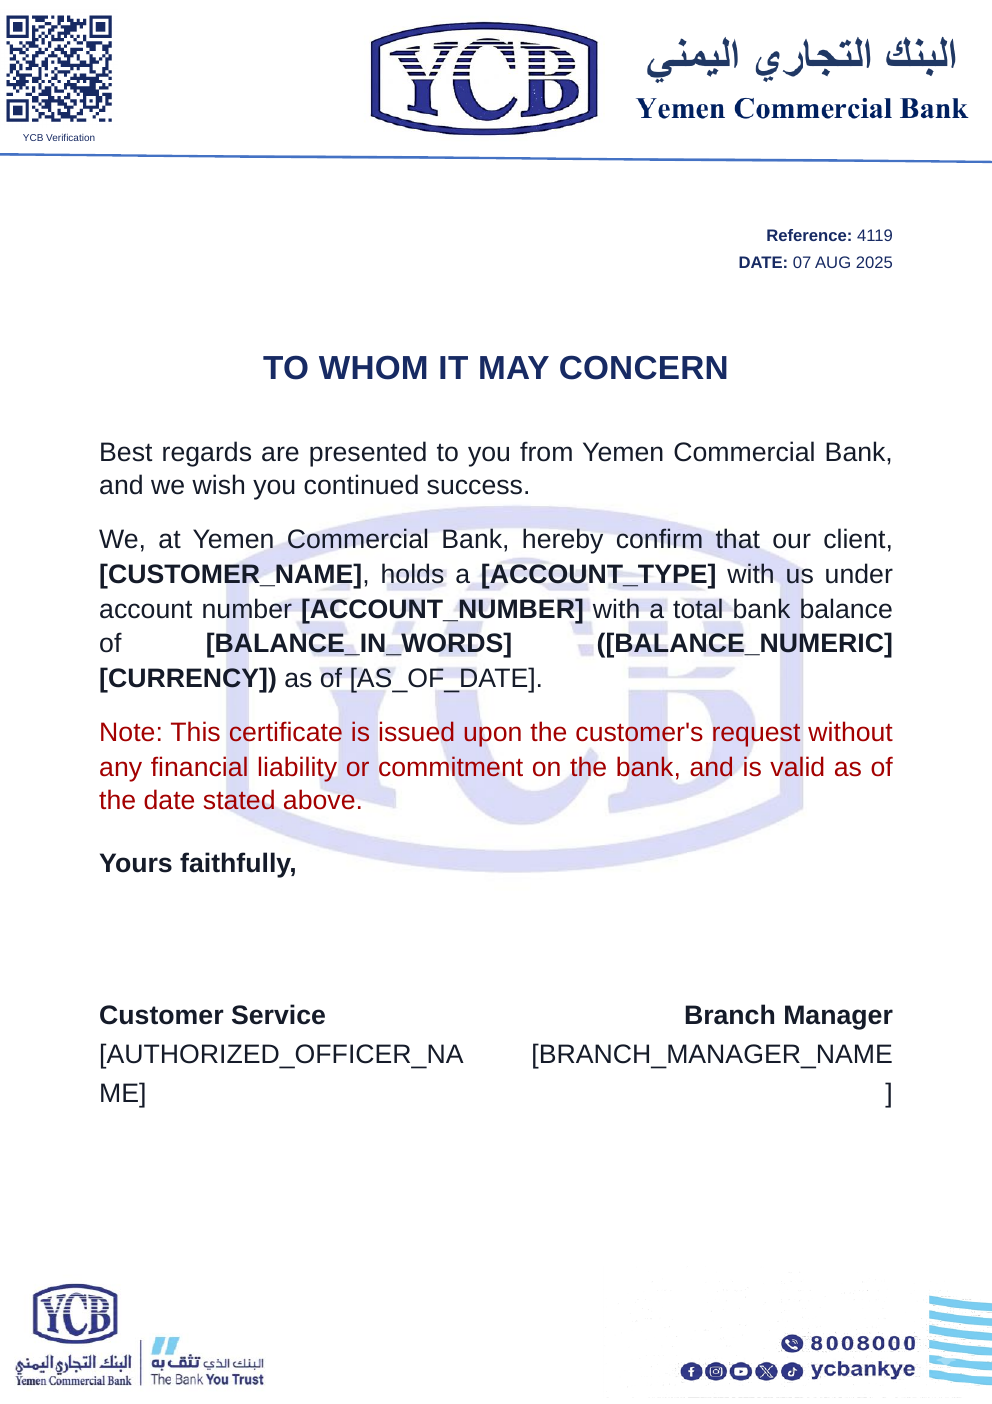
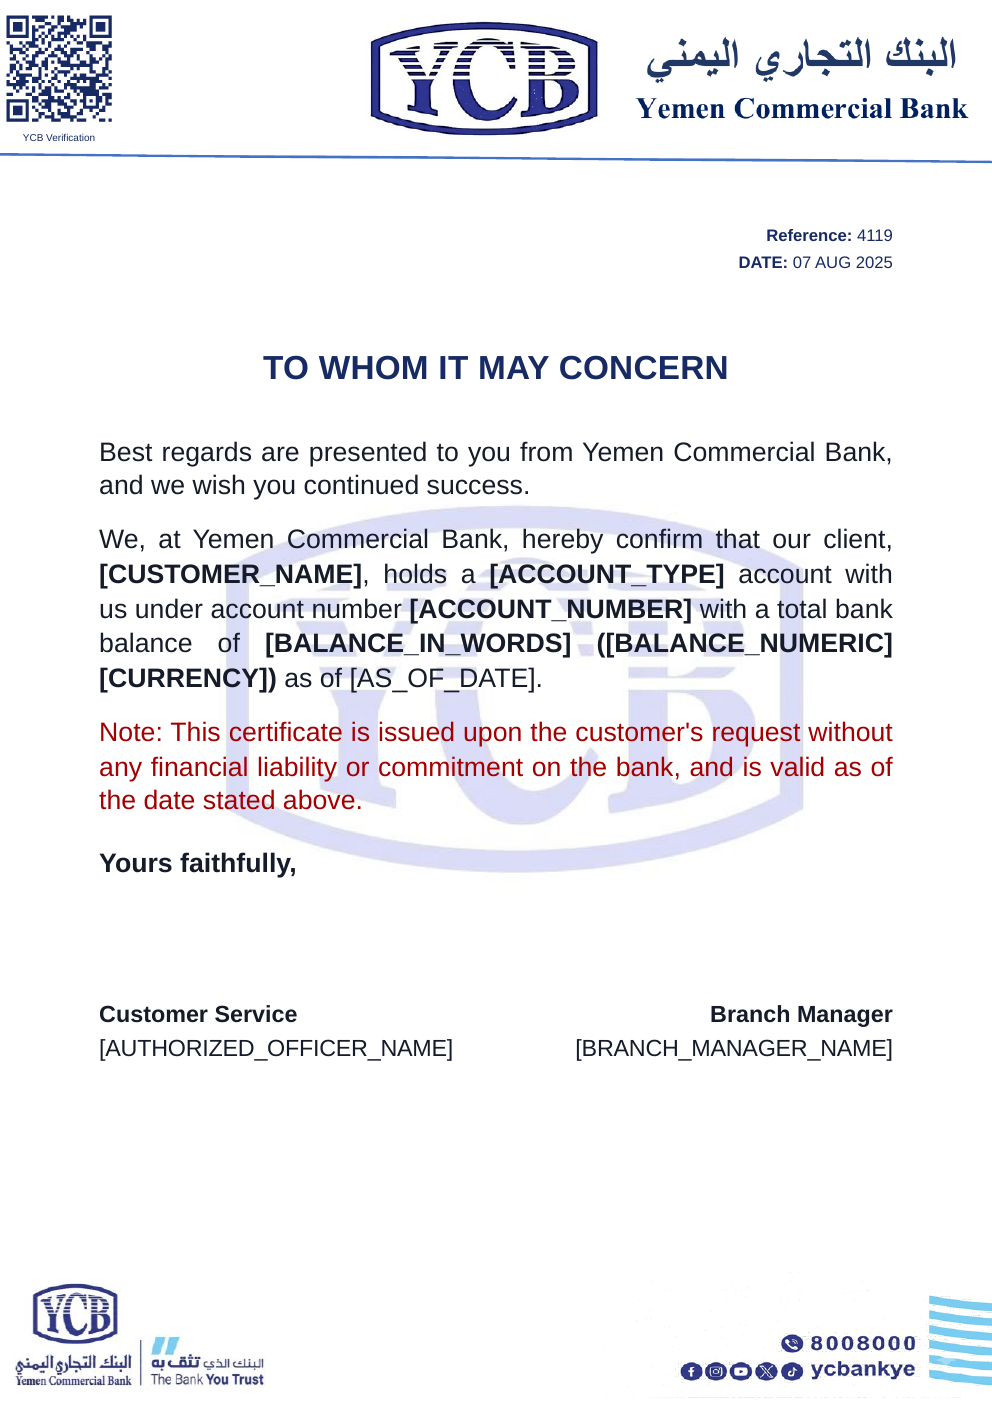
fix: polish YCB certificate signature fields

Changed region(s): [[0.0938, 0.3981, 0.9062, 0.49], [0.0938, 0.7044, 0.4688, 0.7963], [0.5312, 0.7044, 0.9062, 0.7657]]

diff --git a/preview/ycb-official-certificate-preview.html b/preview/ycb-official-certificate-preview.html
@@ -3,7 +3,7 @@
 <head>
 <meta charset="utf-8"><title>Official Bank Certificate Preview</title>
 <style>
-@page{size:A4;margin:0}*{box-sizing:border-box}html,body{margin:0;background:#e9eef4}body{font-family:Arial,Calibri,sans-serif;color:#172a63}.page{position:relative;width:210mm;height:297mm;margin:0 auto;background:#fff url('ycb-official-letterhead.png') center/100% 100% no-repeat;overflow:hidden}.draft{position:fixed;top:10px;left:10px;z-index:5;padding:6px 10px;background:#fff5d6;color:#755600;border:1px solid #e4c86b;font:12px Arial,sans-serif}.header-qr{position:absolute;top:2mm;left:0mm;width:25mm;height:25mm;object-fit:contain}.header-qr-label{position:absolute;top:28mm;left:0mm;width:25mm;text-align:center;font:8px Arial,sans-serif;color:#172a63}.header-meta{position:absolute;top:47mm;right:21mm;text-align:right;font-size:10pt;line-height:1.65;color:#172a63}.header-meta div{white-space:nowrap}.content{position:absolute;top:64mm;right:21mm;left:21mm}.title{text-align:center;font-size:20pt;font-weight:700;letter-spacing:.2px;text-transform:uppercase;padding:15pt 0}.body{font-size:16pt;font-weight:400;line-height:1.3;text-align:justify;color:#151b29;word-break:normal;overflow-wrap:normal;hyphens:none}.body p{margin:0 0 4mm}.body .strong{font-size:16pt;font-weight:700}.disclaimer{font-size:16pt;font-weight:400;line-height:1.3;margin-top:3mm;color:#a30000}.closing{font-size:16pt;font-weight:700;text-align:left;margin-top:6mm;color:#151b29}.signatures{display:grid;grid-template-columns:minmax(0,1fr) minmax(0,1fr);column-gap:12mm;margin:10mm 0 0}.signature{text-align:center;font-size:16pt;line-height:1.45;color:#151b29;min-height:27mm;min-width:0}.signature:first-child{text-align:left}.signature:last-child{text-align:right}.signature .role,.signature .name{display:block;font-weight:700}.signature .name{font-weight:400;overflow-wrap:anywhere}.signature .stamp-space{display:block;height:15mm}.notice{position:absolute;bottom:24mm;left:21mm;right:21mm;text-align:center;font-size:10pt;color:#a30000}@media print{body{background:#fff}.draft{display:none}.page{margin:0}}
+@page{size:A4;margin:0}*{box-sizing:border-box}html,body{margin:0;background:#e9eef4}body{font-family:Arial,Calibri,sans-serif;color:#172a63}.page{position:relative;width:210mm;height:297mm;margin:0 auto;background:#fff url('ycb-official-letterhead.png') center/100% 100% no-repeat;overflow:hidden}.draft{position:fixed;top:10px;left:10px;z-index:5;padding:6px 10px;background:#fff5d6;color:#755600;border:1px solid #e4c86b;font:12px Arial,sans-serif}.header-qr{position:absolute;top:2mm;left:0mm;width:25mm;height:25mm;object-fit:contain}.header-qr-label{position:absolute;top:28mm;left:0mm;width:25mm;text-align:center;font:8px Arial,sans-serif;color:#172a63}.header-meta{position:absolute;top:47mm;right:21mm;text-align:right;font-size:10pt;line-height:1.65;color:#172a63}.header-meta div{white-space:nowrap}.content{position:absolute;top:64mm;right:21mm;left:21mm}.title{text-align:center;font-size:20pt;font-weight:700;letter-spacing:.2px;text-transform:uppercase;padding:15pt 0}.body{font-size:16pt;font-weight:400;line-height:1.3;text-align:justify;color:#151b29;word-break:normal;overflow-wrap:normal;hyphens:none}.body p{margin:0 0 4mm}.body .strong{font-size:16pt;font-weight:700}.disclaimer{font-size:16pt;font-weight:400;line-height:1.3;margin-top:3mm;color:#a30000}.closing{font-size:16pt;font-weight:700;text-align:left;margin-top:6mm;color:#151b29}.signatures{display:grid;grid-template-columns:minmax(0,1fr) minmax(0,1fr);column-gap:12mm;margin:10mm 0 0}.signature{text-align:center;font-size:14pt;line-height:1.45;color:#151b29;min-height:27mm;min-width:0}.signature:first-child{text-align:left}.signature:last-child{text-align:right}.signature .role{display:block;font-weight:700;font-size:14pt}.signature .name{display:block;font-weight:400;font-size:14pt;white-space:nowrap;letter-spacing:-.2px}.signature .stamp-space{display:block;height:15mm}.notice{position:absolute;bottom:24mm;left:21mm;right:21mm;text-align:center;font-size:10pt;color:#a30000}@media print{body{background:#fff}.draft{display:none}.page{margin:0}}
 </style>
 </head>
 <body>
@@ -15,7 +15,7 @@
     <h1 class="title">TO WHOM IT MAY CONCERN</h1>
     <section class="body">
       <p>Best regards are presented to you from Yemen Commercial Bank, and we wish you continued success.</p>
-      <p>We, at Yemen Commercial Bank, hereby confirm that our client, <span class="strong">[CUSTOMER_NAME]</span>, holds a <span class="strong">[ACCOUNT_TYPE]</span> with us under account number <span class="strong">[ACCOUNT_NUMBER]</span> with a total bank balance of <span class="strong">[BALANCE_IN_WORDS] ([BALANCE_NUMERIC] [CURRENCY])</span> as of [AS_OF_DATE].</p>
+      <p>We, at Yemen Commercial Bank, hereby confirm that our client, <span class="strong">[CUSTOMER_NAME]</span>, holds a <span class="strong">[ACCOUNT_TYPE]</span> account with us under account number <span class="strong">[ACCOUNT_NUMBER]</span> with a total bank balance of <span class="strong">[BALANCE_IN_WORDS] ([BALANCE_NUMERIC] [CURRENCY])</span> as of [AS_OF_DATE].</p>
       <p class="disclaimer">Note: This certificate is issued upon the customer's request without any financial liability or commitment on the bank, and is valid as of the date stated above.</p>
     </section>
     <div class="closing">Yours faithfully,</div>

diff --git a/preview/fix_stage1_signature_text.py b/preview/fix_stage1_signature_text.py
@@ -1,0 +1,11 @@
+from pathlib import Path
+
+path = Path('/home/ubuntu/bank-karimi-web-staging/preview/ycb-official-certificate-preview.html')
+html = path.read_text()
+html = html.replace('with us under account number', 'account with us under account number')
+html = html.replace('font-size:16pt;line-height:1.45;color:#151b29;min-height:27mm;min-width:0', 'font-size:14pt;line-height:1.45;color:#151b29;min-height:27mm;min-width:0')
+html = html.replace('.signature .role,.signature .name{display:block;font-weight:700}.signature .name{font-weight:400;overflow-wrap:anywhere}', '.signature .role{display:block;font-weight:700;font-size:14pt}.signature .name{display:block;font-weight:400;font-size:14pt;white-space:nowrap;letter-spacing:-.2px}')
+# Ensure field emphasis remains limited to the data spans in the statement.
+html = html.replace('.body .strong{font-size:16pt;font-weight:700}', '.body .strong{font-size:16pt;font-weight:700}')
+path.write_text(html)
+print('fixed signature typography, wrapping, and account wording')
